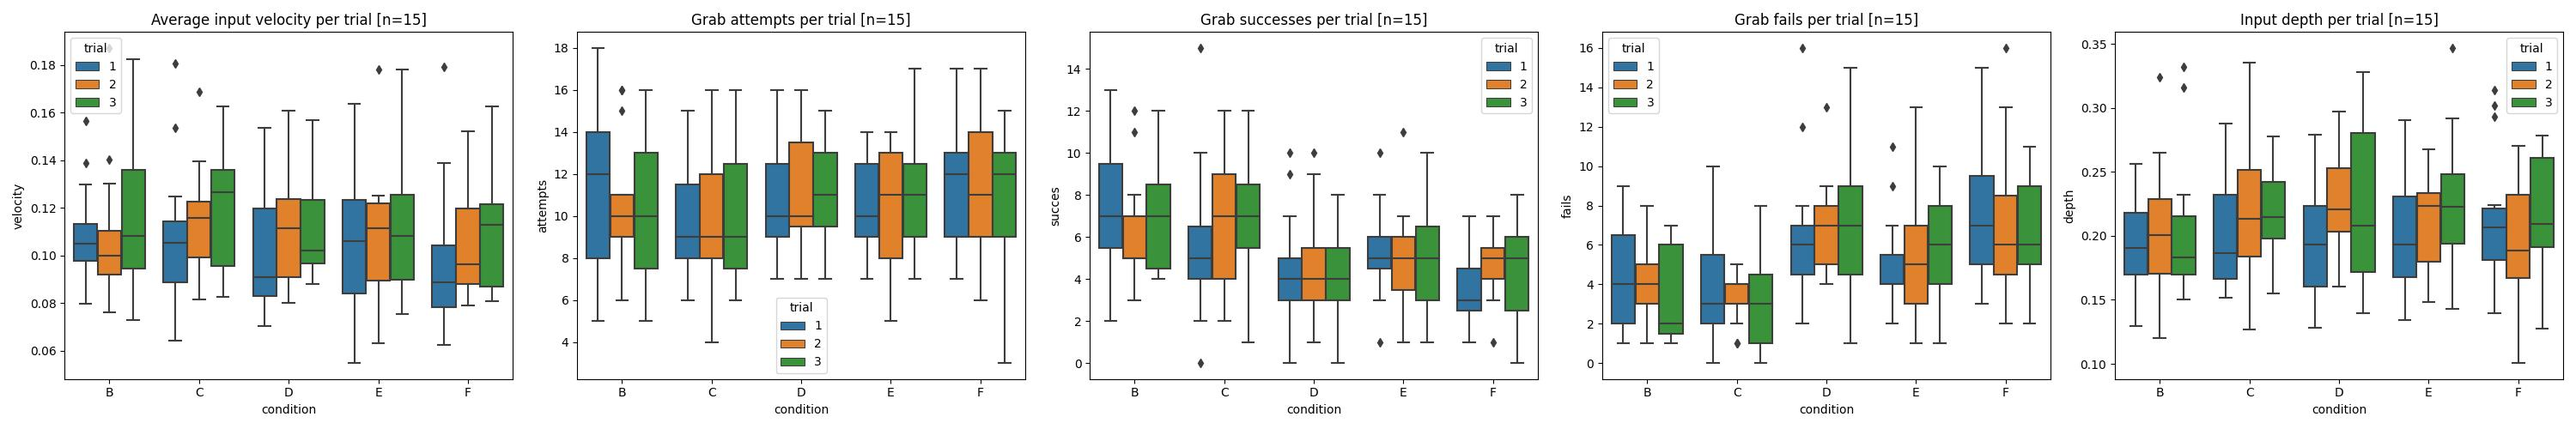
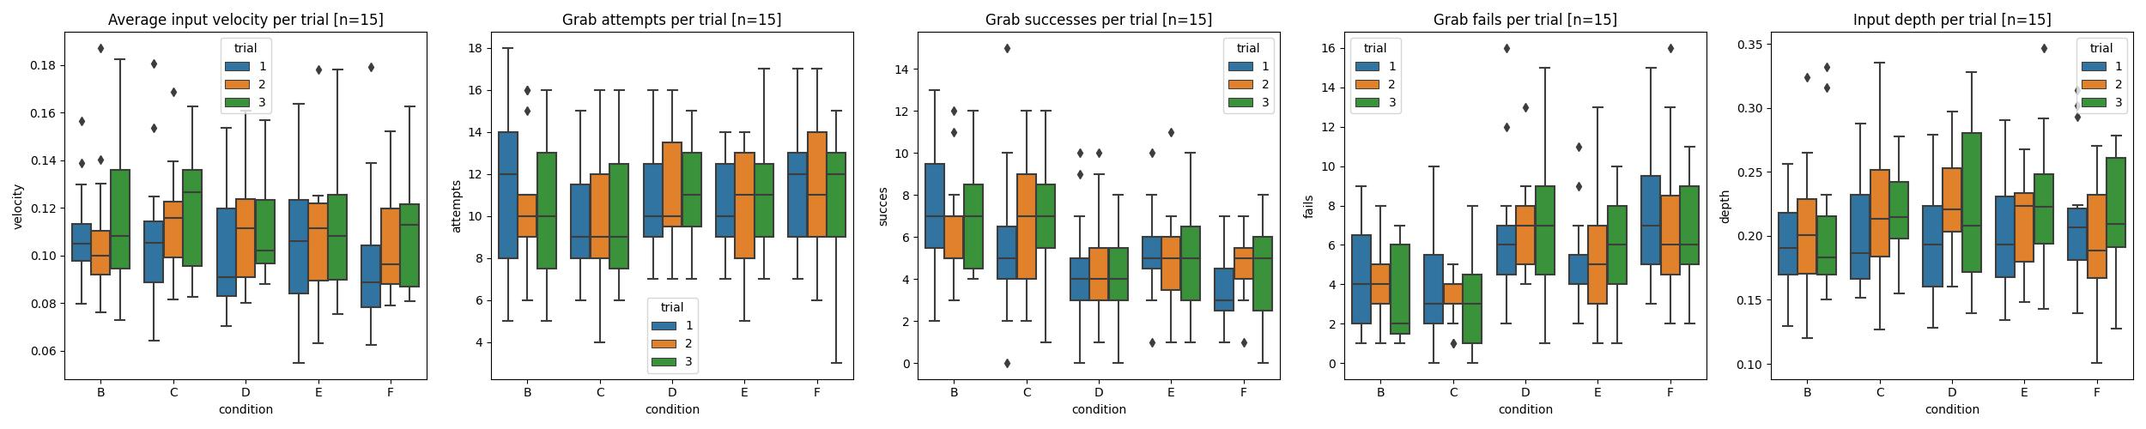
implemeted searcing trouch folder structure for .svo files for conversion to avi

diff --git a/svo_export_as_avi.py b/svo_export_as_avi.py
@@ -19,17 +19,18 @@
 ########################################################################
 
 import sys
+import os
 import pyzed.sl as sl
 import numpy as np
 import cv2
 from pathlib import Path
 import enum
+import time
 
 
 class AppType(enum.Enum):
-    LEFT_AND_RIGHT = 1
-    LEFT_AND_DEPTH = 2
-    LEFT_AND_DEPTH_16 = 3
+    LEFT = 1
+    RIGHT = 2
 
 
 def progress_bar(percent_done, bar_length=50):
@@ -39,44 +40,7 @@ def progress_bar(percent_done, bar_length=50):
     sys.stdout.flush()
 
 
-def main():
-    
-    if not sys.argv or len(sys.argv) != 4:
-        sys.stdout.write("Usage: \n\n")
-        sys.stdout.write("    ZED_SVO_Export A B C \n\n")
-        sys.stdout.write("Please use the following parameters from the command line:\n")
-        sys.stdout.write(" A - SVO file path (input) : \"path/to/file.svo\"\n")
-        sys.stdout.write(" B - AVI file path (output) or image sequence folder(output) :\n")
-        sys.stdout.write("         \"path/to/output/file.avi\" or \"path/to/output/folder\"\n")
-        sys.stdout.write(" C - Export mode:  0=Export LEFT+RIGHT AVI.\n")
-        sys.stdout.write("                   1=Export LEFT+DEPTH_VIEW AVI.\n")
-        sys.stdout.write("                   2=Export LEFT+RIGHT image sequence.\n")
-        sys.stdout.write("                   3=Export LEFT+DEPTH_VIEW image sequence.\n")
-        sys.stdout.write("                   4=Export LEFT+DEPTH_16Bit image sequence.\n")
-        sys.stdout.write(" A and B need to end with '/' or '\\'\n\n")
-        sys.stdout.write("Examples: \n")
-        sys.stdout.write("  (AVI LEFT+RIGHT):  ZED_SVO_Export \"path/to/file.svo\" \"path/to/output/file.avi\" 0\n")
-        sys.stdout.write("  (AVI LEFT+DEPTH):  ZED_SVO_Export \"path/to/file.svo\" \"path/to/output/file.avi\" 1\n")
-        sys.stdout.write("  (SEQUENCE LEFT+RIGHT):  ZED_SVO_Export \"path/to/file.svo\" \"path/to/output/folder\" 2\n")
-        sys.stdout.write("  (SEQUENCE LEFT+DEPTH):  ZED_SVO_Export \"path/to/file.svo\" \"path/to/output/folder\" 3\n")
-        sys.stdout.write("  (SEQUENCE LEFT+DEPTH_16Bit):  ZED_SVO_Export \"path/to/file.svo\" \"path/to/output/folder\""
-                         " 4\n")
-        exit()
-
-    # Get input parameters
-    svo_input_path = Path(sys.argv[1])
-    output_path = Path(sys.argv[2])
-    output_as_video = True    
-    app_type = AppType.LEFT_AND_RIGHT
-    if sys.argv[3] == "1" or sys.argv[3] == "3":
-        app_type = AppType.LEFT_AND_DEPTH
-    if sys.argv[3] == "4":
-        app_type = AppType.LEFT_AND_DEPTH_16
-    
-    # Check if exporting to AVI or SEQUENCE
-    if sys.argv[3] != "0" and sys.argv[3] != "1":
-        output_as_video = False
-
+def convert(svo_input_path, output_path, app_type, output_as_video):
     if not output_as_video and not output_path.is_dir():
         sys.stdout.write("Input directory doesn't exist. Check permissions or create it.\n",
                          output_path, "\n")
@@ -102,7 +66,7 @@ def main():
     image_size = zed.get_camera_information().camera_resolution
     width = image_size.width
     height = image_size.height
-    width_sbs = width * 2
+    width_sbs = width
     
     # Prepare side by side image container equivalent to CV_8UC4
     svo_image_sbs_rgba = np.zeros((height, width_sbs, 4), dtype=np.uint8)
@@ -132,30 +96,45 @@ def main():
     # Start SVO conversion to AVI/SEQUENCE
     sys.stdout.write("Converting SVO... Use Ctrl-C to interrupt conversion.\n")
 
-    nb_frames = zed.get_svo_number_of_frames()
+    nb_frames = zed.get_svo_number_of_frames() -1
 
     while True:
         if zed.grab(rt_param) == sl.ERROR_CODE.SUCCESS:
             svo_position = zed.get_svo_position()
 
-            # Retrieve SVO images
-            zed.retrieve_image(left_image, sl.VIEW.LEFT)
-
-            if app_type == AppType.LEFT_AND_RIGHT:
+            if app_type == AppType.LEFT:
+                zed.retrieve_image(left_image, sl.VIEW.LEFT)
+            elif app_type == AppType.RIGHT:
                 zed.retrieve_image(right_image, sl.VIEW.RIGHT)
-            elif app_type == AppType.LEFT_AND_DEPTH:
-                zed.retrieve_image(right_image, sl.VIEW.DEPTH)
-            elif app_type == AppType.LEFT_AND_DEPTH_16:
-                zed.retrieve_measure(depth_image, sl.MEASURE.DEPTH)
 
-            # Copy the left image to the left side of SBS image
-            svo_image_sbs_rgba[0:height, 0:width, :] = left_image.get_data()
+            if output_as_video:
+                # Copy the left image to the left side of SBS image
+                if app_type == AppType.LEFT:
+                    svo_image_sbs_rgba[0:height, 0:width, :] = left_image.get_data()
+                elif app_type == AppType.RIGHT:  
+                    # Copy the right image to the right side of SBS image
+                    svo_image_sbs_rgba[0:height, 0:width, :] = right_image.get_data()
 
-            # Convert SVO image from RGBA to RGB
-            ocv_image_sbs_rgb = cv2.cvtColor(svo_image_sbs_rgba, cv2.COLOR_RGBA2RGB)
+                # Convert SVO image from RGBA to RGB
+                ocv_image_sbs_rgb = cv2.cvtColor(svo_image_sbs_rgba, cv2.COLOR_RGBA2RGB)
 
-            # Write the RGB image in the video
-            video_writer.write(ocv_image_sbs_rgb)
+                # Write the RGB image in the video
+                video_writer.write(ocv_image_sbs_rgb)
+            else:
+                # Generate file names
+                filename1 = output_path / ("left%s.png" % str(svo_position).zfill(6))
+                filename2 = output_path / (("right%s.png" if app_type == AppType.LEFT_AND_RIGHT
+                                           else "depth%s.png") % str(svo_position).zfill(6))
+                
+                # Save Left images
+                cv2.imwrite(str(filename1), left_image.get_data())
+
+                if app_type != AppType.LEFT_AND_DEPTH_16:
+                    # Save right images
+                    cv2.imwrite(str(filename2), right_image.get_data())
+                else:
+                    # Save depth images (convert to uint16)
+                    cv2.imwrite(str(filename2), depth_image.get_data().astype(np.uint16))
 
             # Display progress
             progress_bar((svo_position + 1) / nb_frames * 100, 30)
@@ -170,8 +149,30 @@ def main():
         video_writer.release()
 
     zed.close()
-    return 0
 
+def main():
+    datapath        = "C:\\Users\\thoma\\Documents\\Unity\\Panda-manipulation\\Data\\Experiment\\"
+    n = 0
+
+    for root, dirs, files in os.walk(datapath):
+        for file in files:
+            if file.endswith(".svo"):
+                svo_path = os.path.join(root, file)
+                output_path = os.path.join(root, "ZED2_Recording.avi")
+                print("found svo: {}".format(svo_path))             
+                print("converting into: {}".format(os.path.join(output_path)))
+                convert(svo_path, output_path, AppType.RIGHT, True)
+                n += 1
+                if n == 3:
+                    break
+        else:
+            continue
+
+        break
+                
+    
+    print(), print("Total converted files: {}".format(n)), print()
+    
 
 if __name__ == "__main__":
     main()

diff --git a/plot.py b/plot.py
@@ -124,7 +124,7 @@ for p in Participants:
             new_row = [data[p][c][t]['depth'], p, c, t]
             trail_depth.loc[len(trial_grabs)] = new_row            
 
-fig7, ax7 = plt.subplots(1,5, figsize=(30, 5))
+fig7, ax7 = plt.subplots(1,5, figsize=(25, 5))
 sns.boxplot(x=trial_velocity['condition'], y=trial_velocity['velocity'], hue=trial_velocity['trial'], ax=ax7[0])
 ax7[0].set_title('Average input velocity per trial [n={}]'.format(len(Participants)))
 sns.boxplot(x=trial_grabs['condition'], y=trial_grabs['attempts'], hue=trial_grabs['trial'], ax=ax7[1])
